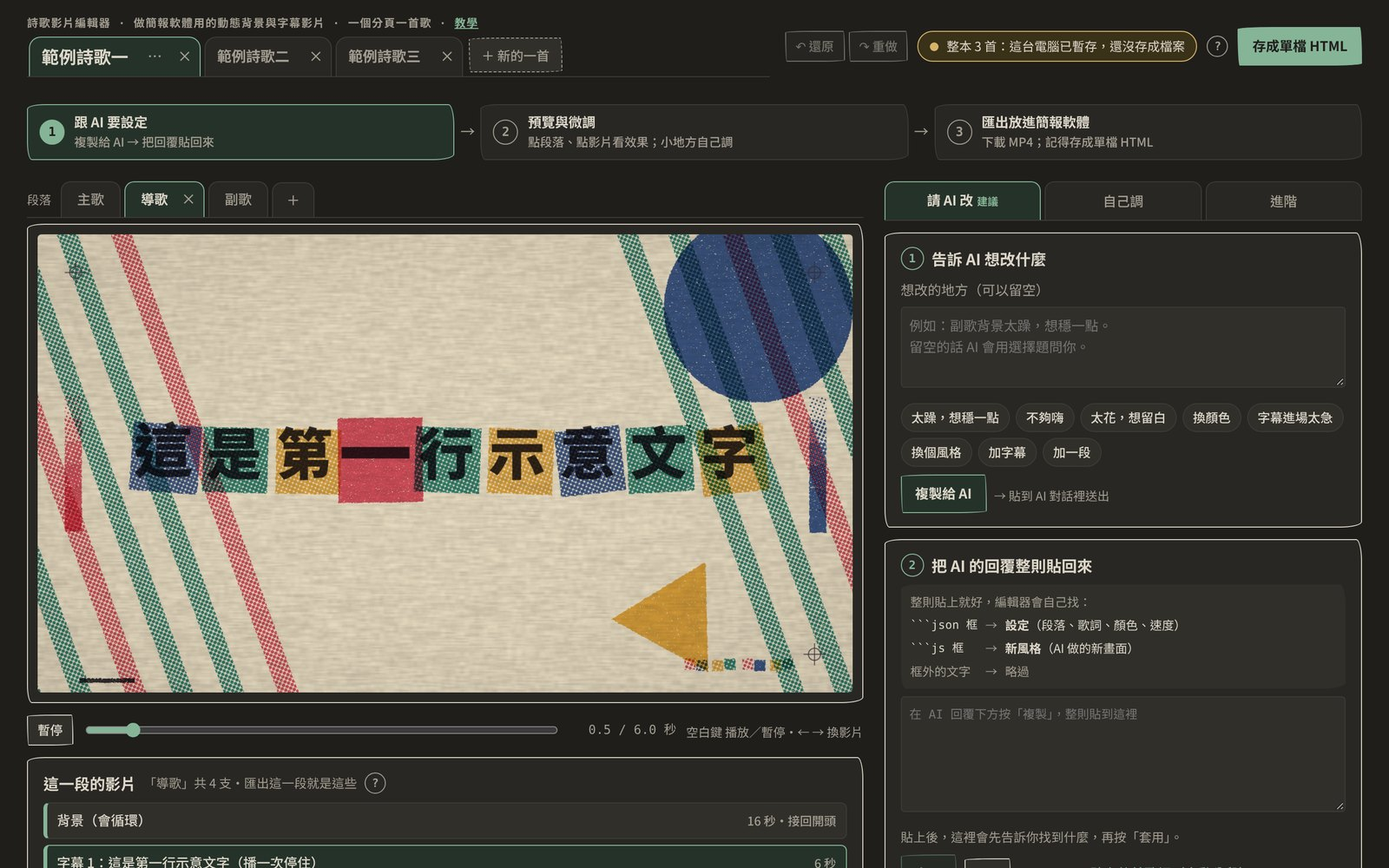
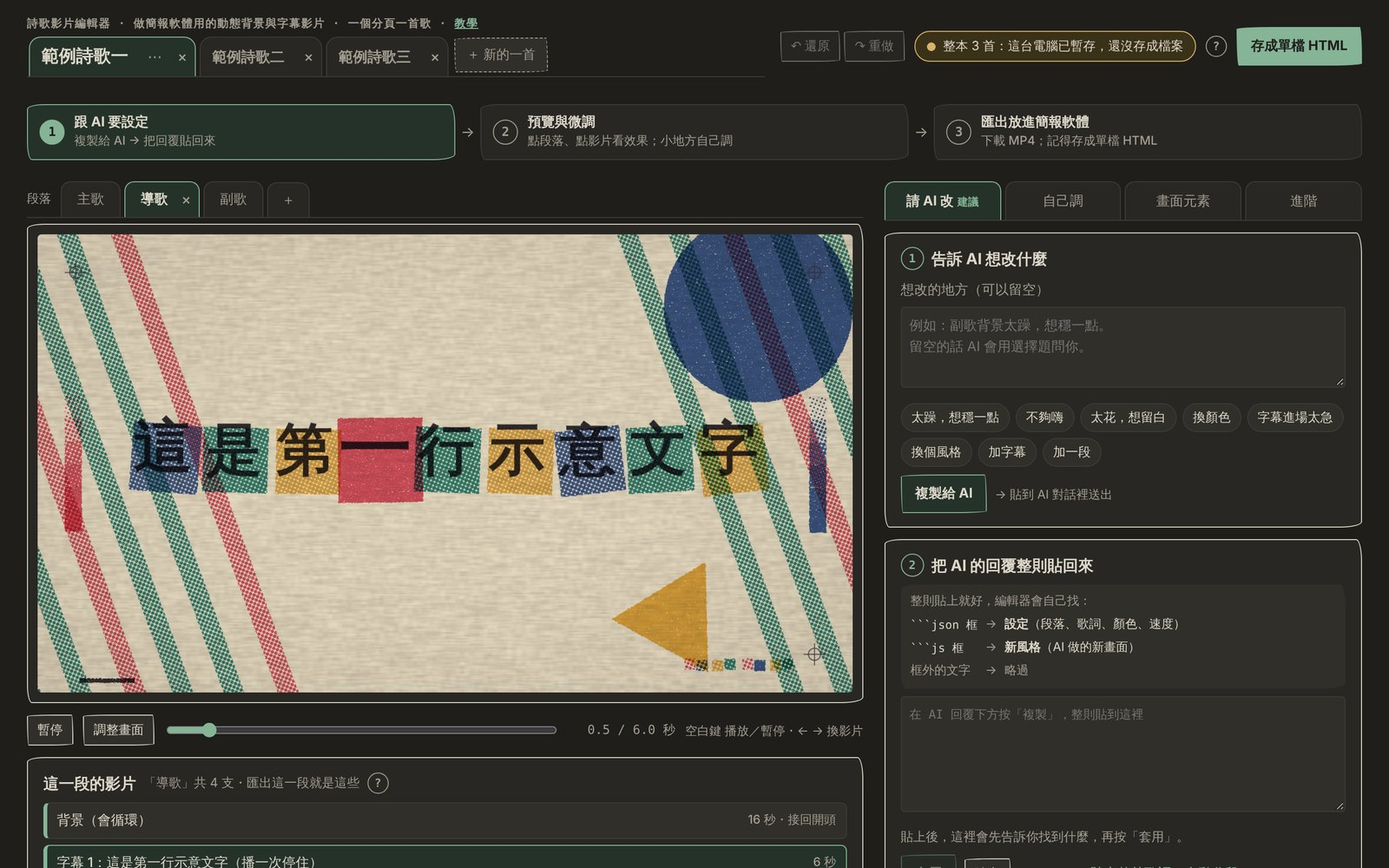
預覽上的選取規則：調整畫面開關、先選再拖、游標提示、範圍選取、多選一起移動、鎖定
- 「調整畫面」開關預設關閉，關著時預覽只能看
- 打開後：游標移過顯示外框與名稱；點一下只選取；從選取範圍裡開始拖才會移動，其他地方按住拖是範圍選取；Shift 點加選
- 多選時一起移動、記一筆歷史紀錄；縮放與旋轉一次一個
- 元素可以鎖定（設定的 locked），鎖定後在預覽上點不到、範圍選取選不到
- 太小的選取框以元素為中心放大到抓得到
- 教學頁的分頁說明與編輯器總覽圖跟上四個分頁；SKILL.md、docs/architecture.md、CLAUDE.md 同步

Claude-Session: https://claude.ai/code/session_01SKgHYH8PL4b9JNzSFnQAaT

diff --git a/src/editor/stage.js b/src/editor/stage.js
@@ -1,44 +1,72 @@
-let selEl = null, stageDrag = null;
-const SNAP_CSS_PX = 6, DRAG_START_CSS_PX = 3, ROTATE_STEP = 15, BOX_MIN_CSS_PX = 48, ROTATE_HANDLE_ROOM_CSS_PX = 34;
+let selEls = [], stageDrag = null, editOn = false, hoverEl = null, hoverWant = null, hoverBusy = false;
+const SNAP_CSS_PX = 6, DRAG_START_CSS_PX = 4, ROTATE_STEP = 15, BOX_MIN_CSS_PX = 48, ROTATE_HANDLE_ROOM_CSS_PX = 34;
 const boxCenter = box => [(box[0] + box[2]) / 2, (box[1] + box[3]) / 2];
 const inBox = (box, p) => p.x >= box[0] && p.x <= box[2] && p.y >= box[1] && p.y <= box[3];
-const elementState = id => elementsNow().find(e => e.id === id) || null;
-function selectionNow() {
-  const e = selEl && elementState(selEl); if (!e || e.fixed || !e.visible) return null;
+const joinBoxes = (a, b) => [Math.min(a[0], b[0]), Math.min(a[1], b[1]), Math.max(a[2], b[2]), Math.max(a[3], b[3])];
+const isSelected = id => selEls.includes(id);
+const selectable = e => !!e && !e.fixed && !e.locked && e.visible;
+function placementOf(e) {
   const home = clipTerritory[e.id], c = home ? boxCenter(home) : [W / 2, H / 2], anchor = [c[0] + e.dx, c[1] + e.dy];
   const hw = home ? (home[2] - home[0]) / 2 * e.scale : 0, hh = home ? (home[3] - home[1]) / 2 * e.scale : 0;
-  const box = e.box || (home ? [anchor[0] - hw, anchor[1] - hh, anchor[0] + hw, anchor[1] + hh] : null);
-  return box && { id: e.id, label: e.label, box, anchor, dx: e.dx, dy: e.dy, scale: e.scale, rotate: e.rotate };
+  return { e, anchor, box: e.box || (home ? [anchor[0] - hw, anchor[1] - hh, anchor[0] + hw, anchor[1] + hh] : null) };
+}
+function selectionNow() {
+  if (!selEls.length) return null;
+  const all = elementsNow(), parts = selEls.map(id => all.find(e => e.id === id)).filter(selectable).map(placementOf).filter(p => p.box);
+  if (!parts.length) return null;
+  const one = parts.length === 1 ? parts[0] : null;
+  return { id: one ? one.e.id : null, ids: parts.map(p => p.e.id), label: one ? `元素「${one.e.label}」` : ` ${parts.length} 個元素`, box: parts.map(p => p.box).reduce(joinBoxes), anchor: one ? one.anchor : null,
+    dx: one ? one.e.dx : 0, dy: one ? one.e.dy : 0, scale: one ? one.e.scale : 1, rotate: one ? one.e.rotate : 0, parts: parts.map(p => ({ id: p.e.id, dx: p.e.dx, dy: p.e.dy })) };
+}
+function setSelection(ids) {
+  const all = elementsNow(); selEls = [...new Set(ids)].filter(id => selectable(all.find(e => e.id === id)));
+  syncElementRows(); renderStage();
 }
 function selectElement(id) {
-  const e = id ? elementState(id) : null;
-  if (id && (!e || e.fixed || !e.visible)) return false;
-  selEl = id || null; syncElementRows(); renderStage(); return true;
+  if (!id) { setSelection([]); return true; }
+  if (!selectable(elementsNow().find(e => e.id === id))) return false;
+  if (!editOn) setEditMode(true);
+  setSelection([id]); return true;
+}
+function setEditMode(on) {
+  editOn = !!on; if (stageDrag) finishDrag(stageDrag, false);
+  if (!editOn) selEls = [];
+  setHover(null);
+  $('#editToggle').setAttribute('aria-pressed', String(editOn)); $('#stageOvl').classList.toggle('on', editOn);
+  if (editOn) showTab('el');
+  syncElementRows(); renderStage();
 }
 const pc = (v, full) => (v / full * 100).toFixed(3) + '%';
+function placeBox(el, box) { el.style.left = pc(box[0], W); el.style.top = pc(box[1], H); el.style.width = pc(box[2] - box[0], W); el.style.height = pc(box[3] - box[1], H); }
 function showGuides(gx, gy) {
   const v = $('#snapV'), h = $('#snapH');
   v.hidden = gx === null; if (gx !== null) v.style.left = pc(gx, W);
   h.hidden = gy === null; if (gy !== null) h.style.top = pc(gy, H);
 }
-// 注意：選取框與把手只畫在畫面範圍內（元素可以超出畫面，把手要抓得到、不能蓋住預覽外面的控制列），而且至少留一塊抓得到的中間；旋轉把手上方沒空間就放下方，都沒有才放框內
 function shownBox(box) {
   const min = BOX_MIN_CSS_PX * W / Math.max(1, $('#view').clientWidth);
-  const x0 = Math.min(Math.max(0, box[0]), W - min), x1 = Math.max(Math.min(W, box[2]), x0 + min);
-  const y0 = Math.min(Math.max(0, box[1]), H - min), y1 = Math.max(Math.min(H, box[3]), y0 + min);
+  const span = (a, b, full) => { const lo = Math.max(0, Math.min(full, a)), hi = Math.max(0, Math.min(full, b)); if (hi - lo >= min) return [lo, hi]; const from = Math.max(0, Math.min(full - min, (lo + hi - min) / 2)); return [from, from + min]; };
+  const [x0, x1] = span(box[0], box[2], W), [y0, y1] = span(box[1], box[3], H);
   return [x0, y0, x1, y1];
 }
+function setHover(id) {
+  hoverEl = id || null;
+  const box = $('#hoverBox'), e = hoverEl && editOn && !stageDrag ? elementsNow().find(x => x.id === hoverEl) : null;
+  box.hidden = !(e && e.box); if (box.hidden) return;
+  placeBox(box, shownBox(e.box)); $('#hoverName').textContent = e.label;
+}
+// 注意：選取框與把手只畫在畫面範圍內（元素可以超出畫面，把手要抓得到、不能蓋住預覽外面的控制列），而且至少留一塊抓得到的中間；旋轉把手上方沒空間就放下方，都沒有才放框內
 function renderStage() {
   const box = $('#selBox'); if (!box) return;
-  const s = exporting ? null : selectionNow(), pivot = $('#selPivot');
-  box.hidden = !s; pivot.hidden = !s;
+  const s = exporting || !editOn ? null : selectionNow(), pivot = $('#selPivot');
+  box.hidden = !s; pivot.hidden = !(s && s.anchor);
   if (!stageDrag) showGuides(null, null);
   if (!s) return;
-  const [x0, y0, x1, y1] = shownBox(s.box), css = $('#view').clientHeight / H, above = y0 * css >= ROTATE_HANDLE_ROOM_CSS_PX, below = (H - y1) * css >= ROTATE_HANDLE_ROOM_CSS_PX;
-  box.style.left = pc(x0, W); box.style.top = pc(y0, H); box.style.width = pc(x1 - x0, W); box.style.height = pc(y1 - y0, H);
-  box.classList.toggle('rotbelow', !above && below); box.classList.toggle('rotinside', !above && !below);
-  pivot.style.left = pc(Math.max(0, Math.min(W, s.anchor[0])), W); pivot.style.top = pc(Math.max(0, Math.min(H, s.anchor[1])), H);
-  box.setAttribute('aria-label', `選取中：${s.label}`);
+  const shown = shownBox(s.box), css = $('#view').clientHeight / H, above = shown[1] * css >= ROTATE_HANDLE_ROOM_CSS_PX, below = (H - shown[3]) * css >= ROTATE_HANDLE_ROOM_CSS_PX;
+  placeBox(box, shown);
+  box.classList.toggle('multi', s.ids.length > 1); box.classList.toggle('rotbelow', !above && below); box.classList.toggle('rotinside', !above && !below);
+  if (s.anchor) { pivot.style.left = pc(Math.max(0, Math.min(W, s.anchor[0])), W); pivot.style.top = pc(Math.max(0, Math.min(H, s.anchor[1])), H); }
+  box.setAttribute('aria-label', `選取中：${s.label.trim()}`);
 }
 function stagePoint(ev) {
   const rc = $('#view').getBoundingClientRect();
@@ -49,7 +77,7 @@ function nearestSnap(edges, targets, reach) {
   for (const e of edges) for (const g of targets) if (Math.abs(g - e) <= reach && (!best || Math.abs(g - e) < Math.abs(best.fix))) best = { fix: g - e, at: g };
   return best;
 }
-function movePatch(drag) {
+function movePatches(drag) {
   const st = drag.start, box = st.box, reach = SNAP_CSS_PX * drag.last.unit;
   let mx = drag.last.x - drag.p0.x, my = drag.last.y - drag.p0.y, gx = null, gy = null;
   if (drag.shift) { if (Math.abs(mx) >= Math.abs(my)) my = 0; else mx = 0; }
@@ -60,64 +88,83 @@ function movePatch(drag) {
     if (sy) { my += sy.fix; gy = sy.at; }
   }
   showGuides(gx, gy);
-  return { dx: st.dx + mx, dy: st.dy + my };
+  return st.parts.map(p => [p.id, { dx: p.dx + mx, dy: p.dy + my }]);
 }
-function scalePatch(drag) {
+function scalePatches(drag) {
   const A = drag.start.anchor, r0 = Math.hypot(drag.p0.x - A[0], drag.p0.y - A[1]), r1 = Math.hypot(drag.last.x - A[0], drag.last.y - A[1]);
-  return r0 < 1 ? null : { scale: drag.start.scale * r1 / r0 };
+  return r0 < 1 ? [] : [[drag.start.id, { scale: drag.start.scale * r1 / r0 }]];
 }
-function rotatePatch(drag) {
+function rotatePatches(drag) {
   const A = drag.start.anchor, a0 = Math.atan2(drag.p0.y - A[1], drag.p0.x - A[0]), a1 = Math.atan2(drag.last.y - A[1], drag.last.x - A[0]);
   const deg = drag.start.rotate + (a1 - a0) * 180 / Math.PI;
-  return { rotate: drag.shift ? Math.round(deg / ROTATE_STEP) * ROTATE_STEP : deg };
+  return [[drag.start.id, { rotate: drag.shift ? Math.round(deg / ROTATE_STEP) * ROTATE_STEP : deg }]];
 }
-const DRAG_PATCH = { move: movePatch, scale: scalePatch, rotate: rotatePatch }, DRAG_WORD = { move: '移動', scale: '縮放', rotate: '旋轉' };
-function armDrag(drag, id) {
-  const s = selectionNow(); if (!s || s.id !== id) return false;
-  drag.id = id; drag.scope = elScope; drag.start = { ...s, before: clone(scopeHost(elScope).elements || {}) }; drag.armed = true;
+const DRAG_PATCHES = { move: movePatches, scale: scalePatches, rotate: rotatePatches }, DRAG_WORD = { move: '移動', scale: '縮放', rotate: '旋轉' };
+const dragRect = drag => [Math.min(drag.p0.x, drag.last.x), Math.min(drag.p0.y, drag.last.y), Math.max(drag.p0.x, drag.last.x), Math.max(drag.p0.y, drag.last.y)];
+function armTransform(drag) {
+  const s = selectionNow(); if (!s || (drag.mode !== 'move' && !s.id)) return false;
+  drag.scope = elScope; drag.start = { ...s, before: clone(scopeHost(elScope).elements || {}), beforeSection: clone(sec().elements || {}) }; drag.armed = true;
   return true;
 }
 function applyDrag(drag) {
   if (!drag.armed || drag.over) return;
   if (!drag.moved && Math.hypot(drag.last.x - drag.p0.x, drag.last.y - drag.p0.y) < DRAG_START_CSS_PX * drag.last.unit) return;
   drag.moved = true;
-  const patch = DRAG_PATCH[drag.mode](drag); if (!patch) return;
-  writeElement(drag.id, patch, drag.scope); syncElementRows(); pushElements();
+  if (drag.mode === 'marquee') { const m = $('#marquee'); m.hidden = false; placeBox(m, dragRect(drag)); return; }
+  const patches = DRAG_PATCHES[drag.mode](drag); if (!patches.length) return;
+  for (const [id, patch] of patches) writeElement(id, patch, drag.scope);
+  syncElementRows(); pushElements();
 }
-function endDrag(drag, keep) {
+function clickSelect(drag) {
+  if (drag.mode === 'move') { if (drag.hit && selEls.length > 1) setSelection([drag.hit]); return; }
+  if (drag.hit) setSelection(drag.add ? (isSelected(drag.hit) ? selEls.filter(id => id !== drag.hit) : [...selEls, drag.hit]) : [drag.hit]);
+  else if (!drag.add) setSelection([]);
+}
+function finishDrag(drag, keep) {
   if (drag.over) return; drag.over = true;
   removeEventListener('pointermove', drag.onMove); removeEventListener('pointerup', drag.onUp); removeEventListener('pointercancel', drag.onCancel);
   if (stageDrag === drag) stageDrag = null;
-  document.body.classList.remove('stagedrag'); showGuides(null, null);
-  if (!drag.armed || !drag.moved) return;
-  if (keep) save(scopePrefix(drag.scope) + DRAG_WORD[drag.mode] + `元素「${drag.start.label}」`);
-  else { setOrDrop(scopeHost(drag.scope), drag.start.before); pushElements(); }
+  document.body.classList.remove('stagedrag'); showGuides(null, null); $('#marquee').hidden = true;
+  if (!drag.armed) return;
+  if (!drag.moved) { if (keep) clickSelect(drag); return; }
+  if (drag.mode === 'marquee') {
+    if (keep) serial(async () => { const ids = (await scene.touching(clip.map(t), dragRect(drag))).els; setSelection(drag.add ? [...selEls, ...ids] : ids); }).catch(() => { });
+    return;
+  }
+  if (keep) save(scopePrefix(drag.scope) + DRAG_WORD[drag.mode] + drag.start.label);
+  else { setOrDrop(scopeHost(drag.scope), drag.start.before); setOrDrop(sec(), drag.scope === 'section' ? drag.start.before : drag.start.beforeSection); pushElements(); }
   syncElementRows();
 }
-function cancelStageDrag() { if (stageDrag) { if (stageDrag.armed) endDrag(stageDrag, false); else stageDrag.released = true; } }
-// 注意：點到哪個元素要問 Worker（形狀在那邊），是非同步的；這段時間的游標移動先記在 drag.last，問到結果才開始拖
+// 注意：點到哪個元素要問 Worker（形狀在那邊），是非同步的；這段時間的游標移動先記在 drag.last，問到結果才決定是移動還是範圍選取
 function onStageDown(ev) {
-  if (ev.button > 0 || exporting || !clip || !scene || stageDrag) return;
+  if (!editOn || ev.button > 0 || exporting || !clip || !scene || stageDrag) return;
   ev.preventDefault();
   if (document.activeElement && document.activeElement.closest('#elList')) document.activeElement.blur();
   const handle = ev.target.closest('.h'), p0 = stagePoint(ev);
-  const drag = stageDrag = { mode: handle ? (handle.classList.contains('rot') ? 'rotate' : 'scale') : 'move', p0, last: p0, shift: ev.shiftKey, free: ev.ctrlKey || ev.metaKey };
+  const drag = stageDrag = { mode: handle ? (handle.classList.contains('rot') ? 'rotate' : 'scale') : 'move', p0, last: p0, shift: ev.shiftKey, add: ev.shiftKey, free: ev.ctrlKey || ev.metaKey, hit: null };
   drag.onMove = e => { drag.last = stagePoint(e); drag.shift = e.shiftKey; drag.free = e.ctrlKey || e.metaKey; applyDrag(drag); };
-  drag.onUp = () => { if (drag.armed) endDrag(drag, true); else drag.released = true; };
-  drag.onCancel = () => { if (drag.armed) endDrag(drag, false); else drag.released = true; };
+  drag.onUp = () => { if (drag.armed) finishDrag(drag, true); else drag.released = true; };
+  drag.onCancel = () => { if (drag.armed) finishDrag(drag, false); else { drag.released = true; drag.cancelled = true; } };
   addEventListener('pointermove', drag.onMove); addEventListener('pointerup', drag.onUp); addEventListener('pointercancel', drag.onCancel);
-  document.body.classList.add('stagedrag');
-  if (handle) { if (!armDrag(drag, selEl)) endDrag(drag, false); return; }
+  document.body.classList.add('stagedrag'); setHover(null);
+  if (handle) { if (!armTransform(drag)) finishDrag(drag, false); return; }
   serial(async () => {
-    const hit = (await scene.hit(clip.map(t), p0.x, p0.y)).el, sel = selectionNow();
-    const target = hit || (sel && inBox(shownBox(sel.box), p0) ? sel.id : null);
-    if (!target) { selectElement(null); endDrag(drag, false); return; }
-    if (target !== selEl) { selectElement(target); showTab('el'); }
-    if (drag.released || !armDrag(drag, target)) { endDrag(drag, false); return; }
-    applyDrag(drag);
-  }).catch(() => endDrag(drag, false));
+    const hit = drag.hit = (await scene.hit(clip.map(t), p0.x, p0.y)).el, sel = selectionNow();
+    const onSelection = !drag.add && (hit ? isSelected(hit) : !!(sel && inBox(shownBox(sel.box), p0)));
+    if (onSelection) { if (!armTransform(drag)) { finishDrag(drag, false); return; } }
+    else { drag.mode = 'marquee'; drag.armed = true; }
+    if (drag.released) finishDrag(drag, !drag.cancelled); else applyDrag(drag);
+  }).catch(() => finishDrag(drag, false));
 }
+function runHover() {
+  hoverBusy = true; const want = hoverWant;
+  serial(async () => { setHover(want && editOn && clip && scene && !stageDrag && !exporting ? (await scene.hit(clip.map(t), want.x, want.y)).el : null); })
+    .catch(() => setHover(null)).then(() => { hoverBusy = false; if (hoverWant !== want) runHover(); });
+}
+function onStageHover(ev) { if (!editOn || stageDrag || ev.buttons) return; hoverWant = stagePoint(ev); if (!hoverBusy) runHover(); }
 function bindStage() {
-  $('#stageOvl').addEventListener('pointerdown', onStageDown);
-  document.addEventListener('keydown', e => { if (e.key !== 'Escape' || anyDialogOpen()) return; if (stageDrag) cancelStageDrag(); else if (selEl) selectElement(null); });
+  const ovl = $('#stageOvl');
+  ovl.addEventListener('pointerdown', onStageDown); ovl.addEventListener('pointermove', onStageHover);
+  ovl.addEventListener('pointerleave', () => { hoverWant = null; if (!hoverBusy) setHover(null); });
+  document.addEventListener('keydown', e => { if (e.key !== 'Escape' || anyDialogOpen()) return; if (stageDrag) { if (stageDrag.armed) finishDrag(stageDrag, false); else { stageDrag.released = true; stageDrag.cancelled = true; } } else if (selEls.length) setSelection([]); });
 }

diff --git a/src/editor/ui.js b/src/editor/ui.js
@@ -276,7 +276,7 @@ const pct = v => Math.round(v * 100) + '%', num = v => (+v).toFixed(2).replace(/
 function elementsNow() {
   const m = meta(), s = sec(), adj = clipElements(s), pal = resolvedPal();
   return clipElementIds(s, clipIdx, m).map(id => { const d = m.elements[id], a = adj[id] || {};
-    return { id, label: d.label, fixed: !!d.fixed, visible: a.visible !== false, opacity: a.opacity ?? 1, drawn: drawnByElement[id] || 0,
+    return { id, label: d.label, fixed: !!d.fixed, locked: !!a.locked, visible: a.visible !== false, opacity: a.opacity ?? 1, drawn: drawnByElement[id] || 0,
       dx: a.dx ?? 0, dy: a.dy ?? 0, scale: a.scale ?? 1, rotate: a.rotate ?? 0, box: frameBoxes[id] || null,
       params: Object.fromEntries(Object.entries(d.params).map(([k, p]) => [k, { ...p, value: (a.params || {})[k] ?? p.value }])),
       colors: Object.fromEntries(d.colors.map(k => [k, (a.colors || {})[k] || pal[k]])) }; });
@@ -284,6 +284,7 @@ function elementsNow() {
 function elementLabel(d, patch) {
   const name = `元素「${d.label}」`;
   if (patch.visible !== undefined) return (patch.visible ? '顯示' : '隱藏') + name;
+  if (patch.locked !== undefined) return (patch.locked ? '鎖定' : '解鎖') + name;
   if (patch.opacity !== undefined) return `${name}透明度 ${pct(patch.opacity)}`;
   if (patch.dx !== undefined || patch.dy !== undefined) return '移動' + name;
   if (patch.scale !== undefined) return '縮放' + name;
@@ -326,12 +327,13 @@ function resetElement(id, scope = elScope) {
 }
 function syncElementRows() {
   const now = Object.fromEntries(elementsNow().map(e => [e.id, e]));
-  if (selEl && !(now[selEl] && now[selEl].visible)) { selEl = null; renderStage(); }
+  const still = selEls.filter(id => selectable(now[id])); if (still.length !== selEls.length) { selEls = still; renderStage(); }
   const own = (elScope === 'section' ? sec() : P).elements || {}, other = elScope === 'section' ? {} : sec().elements || {};
   document.querySelectorAll('#elList .elrow').forEach(row => {
     const e = now[row.dataset.id]; if (!e) return;
-    row.querySelector('.elvis').checked = e.visible; row.classList.toggle('off', !e.visible); row.classList.toggle('sel', selEl === e.id);
-    row.querySelectorAll('.elnum').forEach(i => { if (document.activeElement !== i) i.value = i.dataset.k === 'scale' ? Math.round(e.scale * 100) : e[i.dataset.k]; });
+    row.querySelector('.elvis').checked = e.visible; row.classList.toggle('off', !e.visible); row.classList.toggle('sel', isSelected(e.id));
+    row.querySelectorAll('.elnum').forEach(i => { i.disabled = e.locked; if (document.activeElement !== i) i.value = i.dataset.k === 'scale' ? Math.round(e.scale * 100) : e[i.dataset.k]; });
+    const lock = row.querySelector('.ellock'); if (lock) { lock.setAttribute('aria-pressed', String(e.locked)); lock.textContent = e.locked ? '已鎖定' : '鎖定'; }
     const op = row.querySelector('.elop'); if (document.activeElement !== op) op.value = Math.round(e.opacity * 100);
     row.querySelector('.elopv').textContent = pct(e.opacity);
     row.querySelectorAll('.elparam').forEach(i => { if (document.activeElement !== i) { i.value = e.params[i.dataset.k].value; i.nextElementSibling.textContent = num(i.value); } });
@@ -341,7 +343,7 @@ function syncElementRows() {
   });
 }
 function renderElements() {
-  if (selEl && !elementsNow().some(e => e.id === selEl && e.visible && !e.fixed)) selEl = null;
+  { const all = elementsNow(); selEls = selEls.filter(id => selectable(all.find(e => e.id === id))); }
   const list = elementsNow().reverse(), box = $('#elList'), open = new Set([...box.querySelectorAll('.elrow.open')].map(r => r.dataset.id)), m = meta();
   fillSeg($('#elScope'), [{ v: 'song', label: '整首歌' }, { v: 'section', label: '只有這一段' }], elScope, v => { elScope = v; renderElements(); });
   $('#elDesc').textContent = `預覽中的「${i0name(sec())}」由這 ${list.length} 個元素疊起來，上面的列畫在上面。`;
@@ -353,7 +355,7 @@ function renderElements() {
     const vis = document.createElement('input'); vis.type = 'checkbox'; vis.className = 'elvis'; vis.title = '顯示這個元素'; vis.setAttribute('aria-label', `顯示「${e.label}」`);
     const name = document.createElement('button'); name.type = 'button'; name.className = 'elname'; name.textContent = e.label;
     name.title = e.fixed ? '鋪滿畫面的元素：可以隱藏、調透明度，不能移動' : '在預覽上選取這個元素';
-    name.onclick = () => selectElement(selEl === e.id ? null : e.id);
+    name.onclick = () => selectElement(selEls.length === 1 && isSelected(e.id) ? null : e.id);
     lab.append(vis, name);
     const op = document.createElement('input'); op.type = 'range'; op.className = 'elop'; op.min = 0; op.max = 100; op.step = 1; op.setAttribute('aria-label', `「${e.label}」的透明度`);
     const opv = document.createElement('b'); opv.className = 'elopv';
@@ -387,6 +389,7 @@ function renderElements() {
       more.onclick = () => toggle(!row.classList.contains('open')); toggle(open.has(e.id));
       head.append(more);
     }
+    if (!e.fixed) { const lock = document.createElement('button'); lock.type = 'button'; lock.className = 'small ellock'; lock.title = '鎖定後，在預覽上點不到也拖不動這個元素'; lock.onclick = () => setElement(e.id, { locked: lock.getAttribute('aria-pressed') !== 'true' }, 'song'); head.append(lock); }
     const reset = document.createElement('button'); reset.type = 'button'; reset.className = 'small elreset'; reset.textContent = '還原'; reset.title = '把這個元素還原成風格原本的樣子'; reset.onclick = () => resetElement(e.id);
     const note = document.createElement('span'); note.className = 'elnote';
     head.append(reset, note); row.append(head, detail); box.appendChild(row);

diff --git a/src/editor/project.js b/src/editor/project.js
@@ -22,6 +22,7 @@ function pruneElements(adj, m, base = {}) {
     if (base === null) { const kept = Object.fromEntries(Object.entries(a).filter(([, v]) => !isObj(v) || Object.keys(v).length)); if (Object.keys(kept).length) out[id] = kept; continue; }
     if (typeof a.visible === 'boolean' && a.visible !== (b.visible ?? true)) o.visible = a.visible;
     if (typeof a.opacity === 'number' && a.opacity !== (b.opacity ?? 1)) o.opacity = a.opacity;
+    if (typeof a.locked === 'boolean' && a.locked !== (b.locked ?? false)) o.locked = a.locked;
     for (const [k, pl] of Object.entries(PLACEMENT)) if (!def.fixed && typeof a[k] === 'number' && a[k] !== (b[k] ?? pl.rest)) o[k] = a[k];
     const params = Object.fromEntries(Object.entries(a.params || {}).filter(([k, v]) => ownProp(def.params, k) && v !== ((b.params || {})[k] ?? def.params[k].value)));
     const colors = Object.fromEntries(Object.entries(a.colors || {}).filter(([k, v]) => def.colors.includes(k) && v !== (b.colors || {})[k]));
@@ -40,6 +41,7 @@ function readElements(src, m, at, errors, warnings) {
     if (!isObj(a)) { errors.push(`${path} 要是物件，例如 {"visible":false,"opacity":0.6}。`); continue; }
     const o = out[id] = {};
     if (a.visible !== undefined) { const v = boolOf(a.visible); if (v === null) errors.push(`${path}.visible 要是 true 或 false（收到 ${a.visible}）。`); else o.visible = v; }
+    if (a.locked !== undefined) { const v = boolOf(a.locked); if (v === null) errors.push(`${path}.locked 要是 true 或 false（收到 ${a.locked}）。`); else o.locked = v; }
     if (a.opacity !== undefined) { const v = numOf(a.opacity); if (!isFinite(v)) errors.push(`${path}.opacity 要是 0 到 1 的數字（收到 ${a.opacity}）。`); else o.opacity = Math.max(0, Math.min(1, Math.round(v * 100) / 100)); }
     for (const [k, pl] of Object.entries(PLACEMENT)) { if (a[k] === undefined) continue;
       if (def.fixed) { warnings.push(`${path}.${k}：「${def.label}」鋪滿畫面，不能移動、縮放、旋轉，已略過。`); continue; }

diff --git a/src/engine/runtime.js b/src/engine/runtime.js
@@ -352,8 +352,14 @@ function placedItems(t) {
 }
 function hitAt(t, px, py) {
   const { items } = measuring(() => placedItems(t));
-  for (let i = items.length - 1; i >= 0; i--) { const it = items[i]; if (!isFixed(it.el) && it.o.col[3] * (adjOf(it.el).opacity ?? 1) >= HIT_MIN_ALPHA && itemContains(it, px, py)) return it.el; }
+  for (let i = items.length - 1; i >= 0; i--) { const it = items[i]; if (pickable(it) && itemContains(it, px, py)) return it.el; }
   return null;
+}
+const pickable = it => !isFixed(it.el) && !adjOf(it.el).locked && it.o.col[3] * (adjOf(it.el).opacity ?? 1) >= HIT_MIN_ALPHA;
+function touching(t, x0, y0, x1, y1) {
+  const { items } = measuring(() => placedItems(t)), ids = new Set();
+  for (const it of items) { if (ids.has(it.el) || !pickable(it)) continue; const box = itemBox(it); if (box[0] <= x1 && box[2] >= x0 && box[1] <= y1 && box[3] >= y0) ids.add(it.el); }
+  return [...ids];
 }
 
 let CLIP = null, SENT_ALL = false;
@@ -446,6 +452,7 @@ self.onmessage = ev => {
     if (m.op === 'els') { setElements(m.els || {}); postMessage({ id: m.id, ok: true }); return; }
     if (m.op === 'boxes') { const fr = measuring(() => frame(m.t)); postMessage({ id: m.id, ok: true, boxes: fr.boxes, drawn: fr.drawn }); return; }
     if (m.op === 'territory') { postMessage({ id: m.id, ok: true, boxes: territory() }); return; }
+    if (m.op === 'touching') { postMessage({ id: m.id, ok: true, els: touching(m.t, ...m.rect) }); return; }
     if (m.op === 'hit') { postMessage({ id: m.id, ok: true, el: hitAt(m.t, m.x, m.y) }); return; }
     if (m.op === 'clip') { setClip(m.clip); if (SCENE.d.world) worldFor(CLIP.x); postMessage({ id: m.id, ok: true }); return; }
     if (m.op === 'frame') {

diff --git a/guide/index.html b/guide/index.html
@@ -78,7 +78,7 @@
     <h2>上面是歌曲分頁，左邊看畫面，右邊跟 AI 來回</h2>
   </div>
   <div class="shot">
-    <img src="img/editor.jpg" alt="詩歌影片編輯器：最上面歌曲分頁、還原重做、存檔；左邊段落分頁、預覽、影片清單；右邊請 AI 改、自己調、進階三個分頁">
+    <img src="img/editor.jpg" alt="詩歌影片編輯器：最上面歌曲分頁、還原重做、存檔；左邊段落分頁、預覽、影片清單；右邊請 AI 改、自己調、畫面元素、進階四個分頁">
     <span class="pin" style="left:34.8%; top:6.5%;">1</span>
     <span class="pin" style="left:55.3%; top:5.4%;">2</span>
     <span class="pin" style="left:88.0%; top:5.3%;">3</span>
@@ -98,7 +98,7 @@
     <div><b>5</b><span>段落分頁：點一下切換，按住拖曳排序，點兩下改名</span></div>
     <div><b>6</b><span>預覽：就是匯出後的樣子</span></div>
     <div><b>7</b><span>這一段的影片：點一支就預覽那一支</span></div>
-    <div><b>8</b><span>右邊三個分頁：請 AI 改／自己調／進階</span></div>
+    <div><b>8</b><span>右邊四個分頁：請 AI 改／自己調／畫面元素／進階</span></div>
     <div><b>9</b><span>告訴 AI 想改什麼，按「複製給 AI」</span></div>
     <div><b>10</b><span>把 AI 的回覆整則貼回來，按「套用」</span></div>
   </div>

diff --git a/src/editor/main.js b/src/editor/main.js
@@ -48,6 +48,7 @@ function testApi() {
     headerOf, readSong: (t, o) => readSong(t, o || {}), isFresh, histPanel: () => $('#histCard').innerText,
     resetSong, slides: () => slidesOf(sec()),
     elements: async () => { await queue; return elementsNow(); }, selection: async () => { await queue; return selectionNow(); }, territory: async () => { await queue; return clipTerritory; },
+    editMode: on => { if (on !== undefined) setEditMode(!!on); return editOn; }, hover: async () => { do { await queue; await Promise.resolve(); } while (hoverBusy); return hoverEl ? { id: hoverEl } : null; },
     selectElement, seek: tt => { t = tt; setPlaying(false); return serial(loadBoxes); }, setElement: (id, patch, scope) => setElement(id, patch, scope || 'song'), resetElement,
     toTrad, planSplit: (text, o) => planSplit(text, o || {}), applySplitText: (text, o) => { applySplit(planSplit(text, o || {})); save('貼上整首歌詞'); return refresh().then(() => clone(P)); },
     openLyrics: () => openLyricsDialog(), lyricsDialog: () => ({ open: $('#lyrDlg').open, text: $('#lyrBody').innerText }),

diff --git a/src/editor/hosts.js b/src/editor/hosts.js
@@ -71,6 +71,7 @@ class SceneHost {
   elements(els) { return this.call({ op: 'els', els }, TIMEOUT.frame, '套用元素調整時'); }
   boxes(t) { return this.call({ op: 'boxes', t }, TIMEOUT.firstFrame, '量元素範圍時'); }
   territory() { return this.call({ op: 'territory' }, TIMEOUT.firstFrame, '量元素活動範圍時'); }
+  touching(t, rect) { return this.call({ op: 'touching', t, rect }, TIMEOUT.firstFrame, '找範圍裡的元素時'); }
   hit(t, x, y) { return this.call({ op: 'hit', t, x, y }, TIMEOUT.firstFrame, '找點到的元素時'); }
   kill() { if (this.w) { this.w.terminate(); this.w = null; } for (const r of this.wait.values()) r({ ok: false, error: '場景已停止。' }); this.wait.clear(); }
 }

diff --git a/src/editor/bind.js b/src/editor/bind.js
@@ -92,6 +92,7 @@ function bindUI() {
   });
   document.addEventListener('keydown', previewKeys);
   bindStage();
+  $('#editToggle').onclick = () => setEditMode(!editOn);
   syncScroll($('#sLyrics'), $('#sLyrics2'));
   bindFileDrop();
 

diff --git a/CLAUDE.md b/CLAUDE.md
@@ -47,7 +47,7 @@
 - `skill/SKILL.md` 是對外介面：整份給任何 AI，也內嵌在編輯器的「複製開場白」。不能出現 `src/`、`tests/`、`build.py` 這類開發者資訊，不寫真實歌詞，欄位、預設值、介面用語要和程式一致。
 - 新增設定欄位或 `defineScene` 欄位：`project.js`／`runtime.js`、SKILL.md 的欄位表、範例、測試一起改。
 - 畫面元素：場景在 `elements` 登記元素、背景用 `use` 組合；調整存在設定的 `elements`（整首歌）與 `sections[].elements`（單一段落）。場景從同一個 palette 物件讀色，元素的換色是在它畫的期間原地換上再換回，所以顏色要在 `draw` 裡現讀。把風格拆成元素是純重構，畫圖順序與算式要一模一樣，用 `test_golden` 驗證。
-- 預覽上的選取與拖拉在 `stage.js`：點到哪個元素、每個元素這一格的範圍、活動範圍都要問 Worker，是非同步的；測試用 `__app.seek(秒)` 停在固定時間，再讀 `__app.elements()`、`__app.selection()`（它們會等排隊中的工作做完）。元素的範圍（`box`）跟著編輯器的時間，抽格（`grab`）不會改它。
+- 預覽上的選取與拖拉在 `stage.js`：點到哪個元素、每個元素這一格的範圍、活動範圍都要問 Worker，是非同步的；測試先 `__app.editMode(true)` 打開「調整畫面」，用 `__app.seek(秒)` 停在固定時間，再讀 `__app.elements()`、`__app.selection()`、`__app.hover()`（它們會等排隊中的工作做完）。在 Worker 裡為了量範圍或判定點擊而跑場景時要包在 `measuring()` 裡，不能動文字圖集。元素的範圍（`box`）跟著編輯器的時間，抽格（`grab`）不會改它。
 - 質感表在 `gpu.js`（`T`／`ON`）和 `runtime.js`（`TEX_TYPES`／`TEX_ON`）各一份，要一起改；`tests/check_repo.py`（k）會比對。
 - 3D 筆觸層（`world`）：`WORLD_FLOATS` 在 `gpu.js` 和 `runtime.js` 各一份要一致（`tests/check_repo.py`（k）會比對）。無頭 SwiftShader 畫油彩一格約 8 秒，測試只拍少數幾格。無頭環境裡不帶 `?nopreview` 的預覽會讓 GPU 掛掉（2D 風格也一樣），預覽的程式路徑用 `__app.previewFrames` 測。
 - `x.under(f, 預設)` 的底跟著段落選的背景走，改字幕時一起看背景。

diff --git a/docs/architecture.md b/docs/architecture.md
@@ -61,6 +61,8 @@ flowchart LR
 | 位置、大小、旋轉 | `dx` `dy` `scale` `rotate` 是套在整個元素上的一個固定變換。軸心是元素「活動範圍」的中心：把背景的循環取樣 32 次、把畫過的地方聯集起來、裁到畫面內；字幕看最後一格。背景影片和字幕影片用同一套取樣，同一個元素在兩邊的位置才會一樣 |
 | 固定的元素 | 場景標 `fixed: true` 的元素和「背景」鋪滿畫面，只能隱藏、調透明度 |
 | 在預覽上操作 | 預覽上疊一層 HTML（`src/editor/stage.js`）畫選取框、把手、吸附線，WebGPU 只負責畫。點到哪個元素由場景執行環境用形狀判定（最上面的優先）；拖曳中只送調整值、不重建影片，放開才記一筆歷史紀錄 |
+| 防誤觸 | 「調整畫面」開關預設關閉，關著時預覽只能看。打開後：游標移過顯示外框與名稱；點一下只選取；只有從選取範圍裡開始拖才會移動，其他地方按住拖是範圍選取；Shift 點加選；多選只能一起移動。元素可以鎖定（設定的 `locked`），鎖定後在預覽上點不到 |
+| 量範圍不留痕跡 | 量元素範圍、判定點擊、範圍選取都會在 Worker 裡跑場景的畫圖函式，這時只量字寬、不把字放進文字圖集；字進圖集的先後會改變它的位置，匯出的畫面會差幾個像素 |
 
 拆成元素的內建風格：網點印刷、大字排版。
 
@@ -126,7 +128,7 @@ flowchart LR
 - 瀏覽器：有 WebGPU 的 Chrome、Edge。
 - 輸出：1920×1080、30fps、H.264 的 MP4，沒有透明通道。
 - 素材：畫面全部由程式畫出來，沒有匯入圖片、影片、字型；文字用電腦內建字型。
-- 元素的調整：顯示、透明度、參數、顏色、位置、大小（等比）、旋轉。動畫由場景程式決定；一次只能選一個元素。
+- 元素的調整：顯示、透明度、參數、顏色、位置、大小（等比）、旋轉、鎖定。動畫由場景程式決定；多選只能一起移動，縮放與旋轉一次一個。
 - 資料只在同工自己的瀏覽器和存檔裡，沒有伺服器、沒有帳號。
 
 ## 路線
